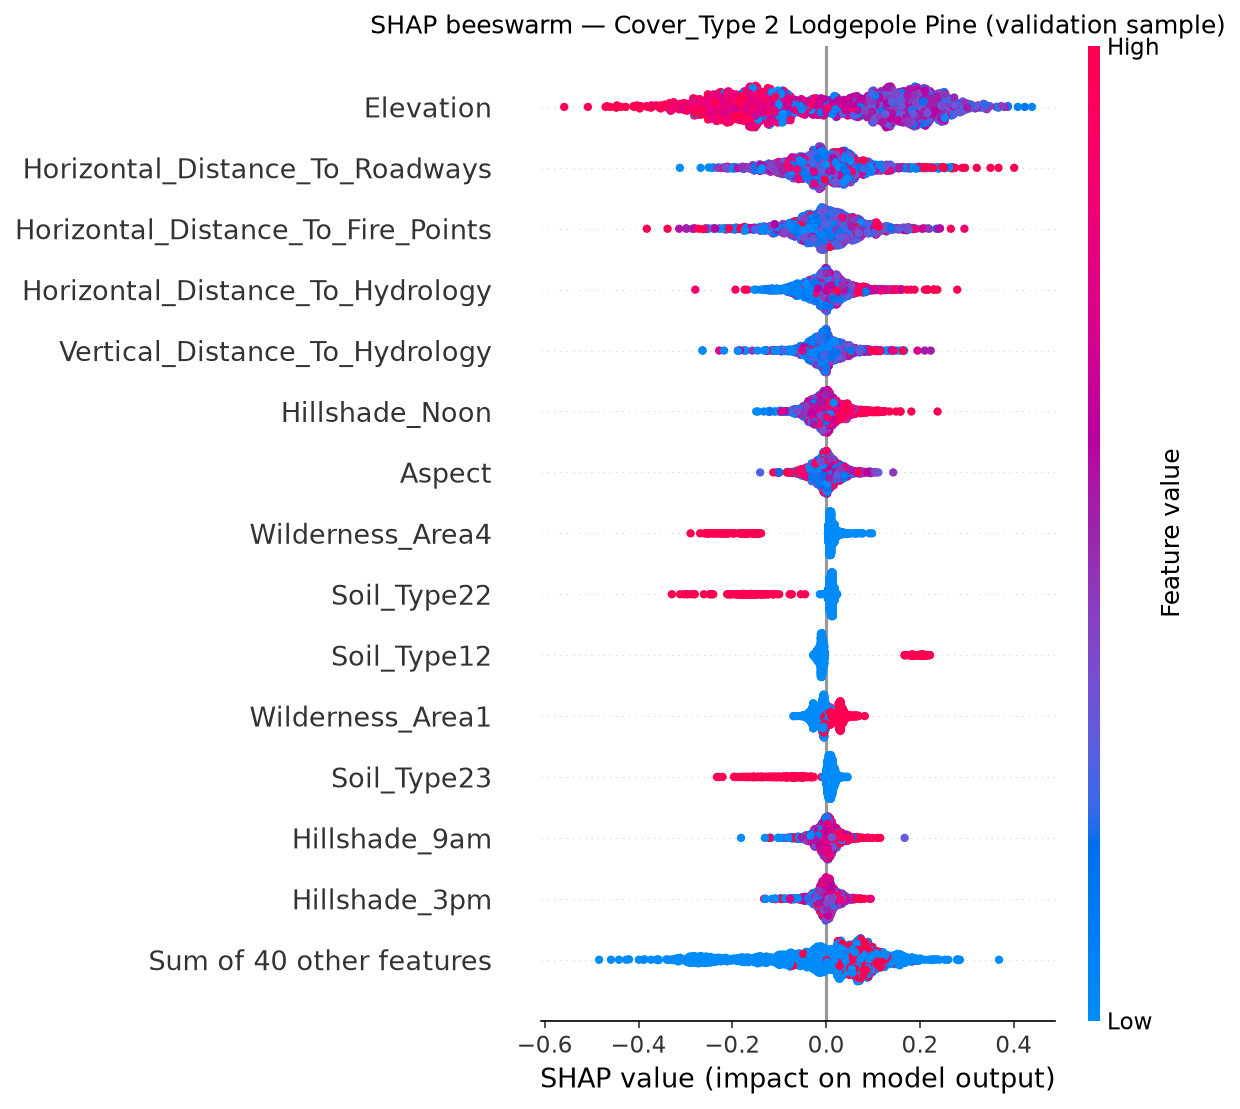
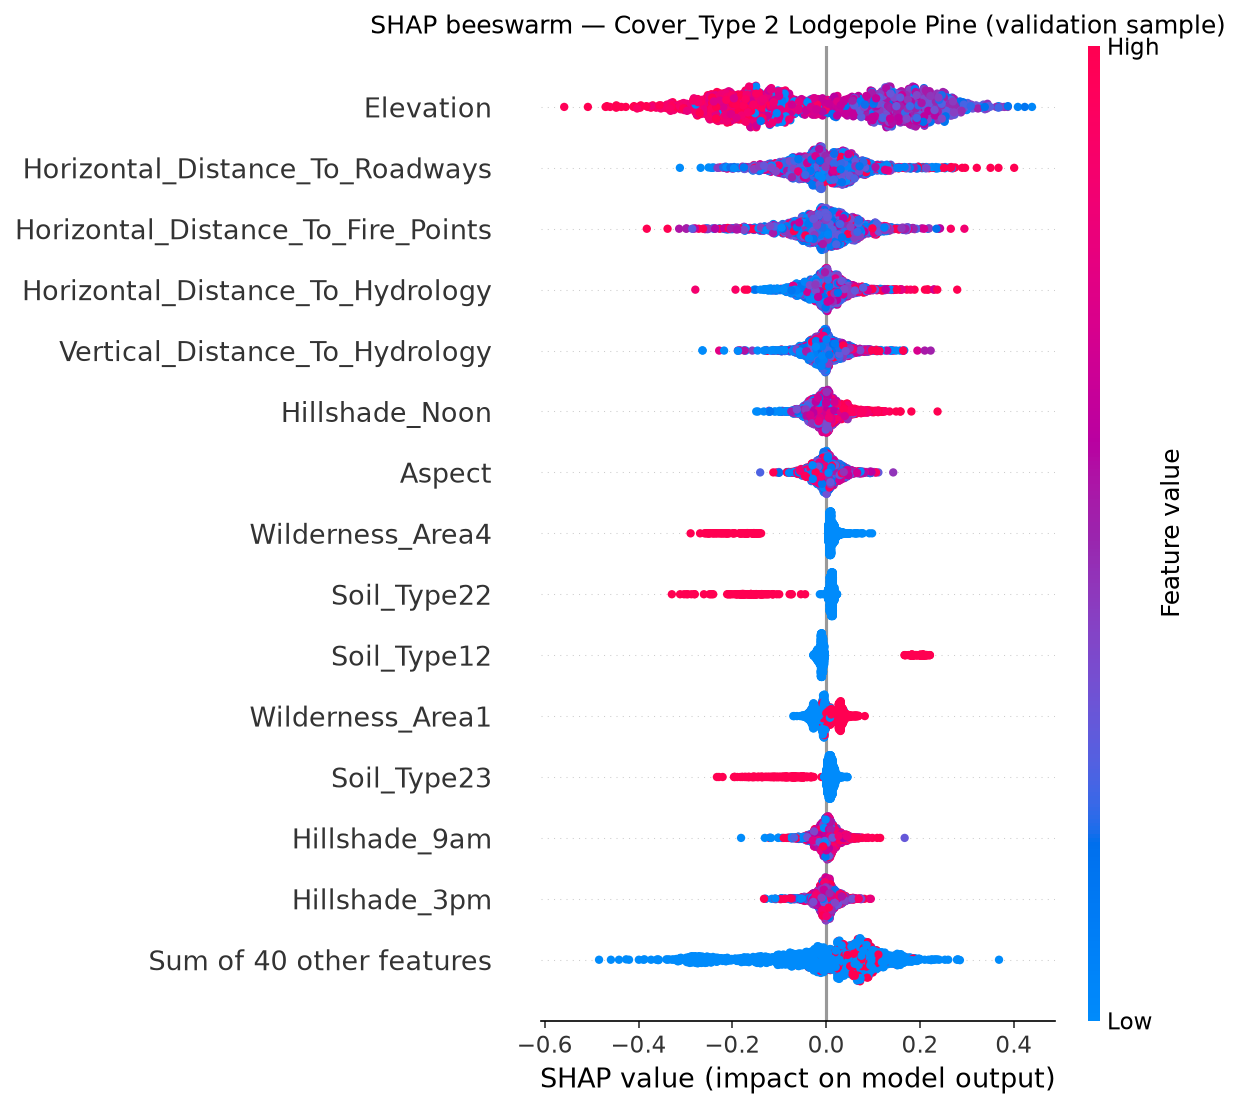
fix(deps): pin shap to 0.51.0 for Python 3.11 compatibility (#30)
CI (Docker python:3.11-slim and the imports job on .python-version 3.11)
failed to install shap==0.54.1, which requires Python >=3.12. 0.51.0 is the
last release supporting Python 3.11 and produces identical SHAP values and
figures. Regenerate the shap-native figures with the pinned version.

Changed region(s): [[0.5516, 0.0613, 0.8274, 0.4599], [0.6129, 0.7358, 0.7355, 0.8891], [0.6435, 0.6438, 0.6742, 0.6745]]

diff --git a/specs/feature-30-m5-model-interpretability-shap.md b/specs/feature-30-m5-model-interpretability-shap.md
@@ -39,7 +39,7 @@ per-prediction attribution of why the model decides each class.
 | `docs/figures/shap_beeswarm.png` | New: beeswarm for the representative class. |
 | `docs/figures/shap_dependence_elevation.png` | New: dependence plot for `Elevation`. |
 | `docs/MODELING.md` | New *Model interpretability (SHAP)* subsection under the M5 results. |
-| `requirements.txt` | Add `shap==0.54.1` (new dependency). |
+| `requirements.txt` | Add `shap==0.51.0` (new dependency). |
 
 Decisions:
 
@@ -65,8 +65,10 @@ Decisions:
 - **Plots.** Summary bar (all classes), beeswarm for the majority class
   Lodgepole Pine (shows effect direction), dependence for `Elevation` (the top
   feature of #26 and η² 0.616). matplotlib `Agg`, headless.
-- **New dependency:** `shap==0.54.1` (declared here and in the PR). No other new
-  dependency: numpy, pandas, matplotlib, scikit-learn are already pinned.
+- **New dependency:** `shap==0.51.0` (declared here and in the PR) — the last
+  release compatible with the project's pinned Python 3.11 (0.52+ require
+  Python >=3.12). No other new dependency: numpy, pandas, matplotlib,
+  scikit-learn are already pinned.
 
 ## Acceptance criteria
 
